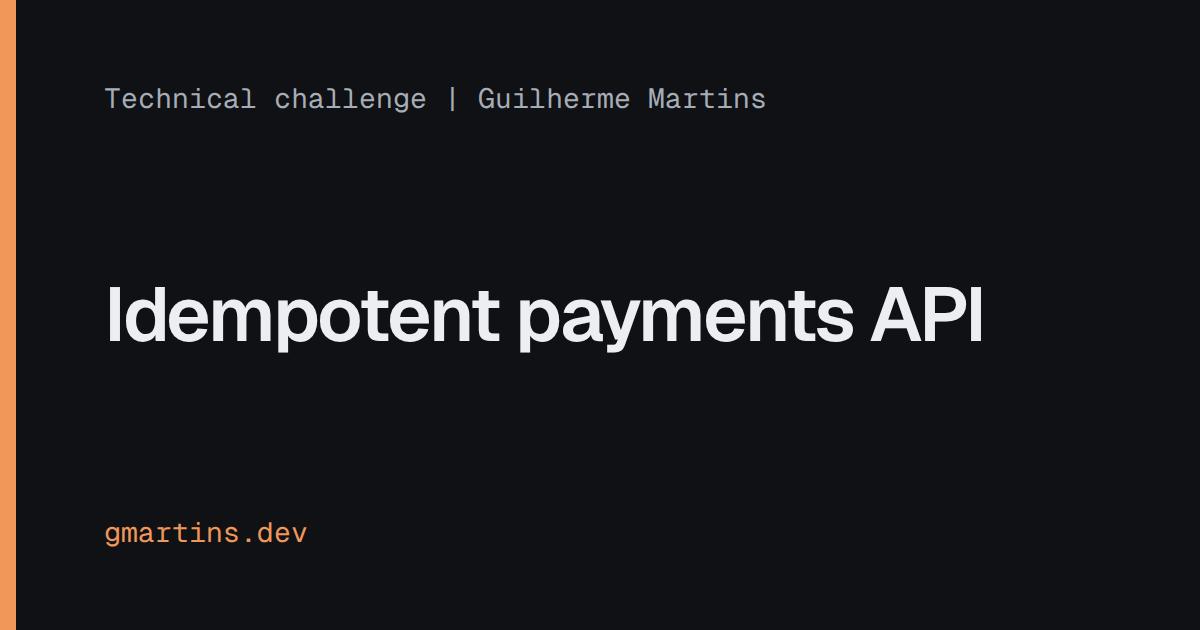
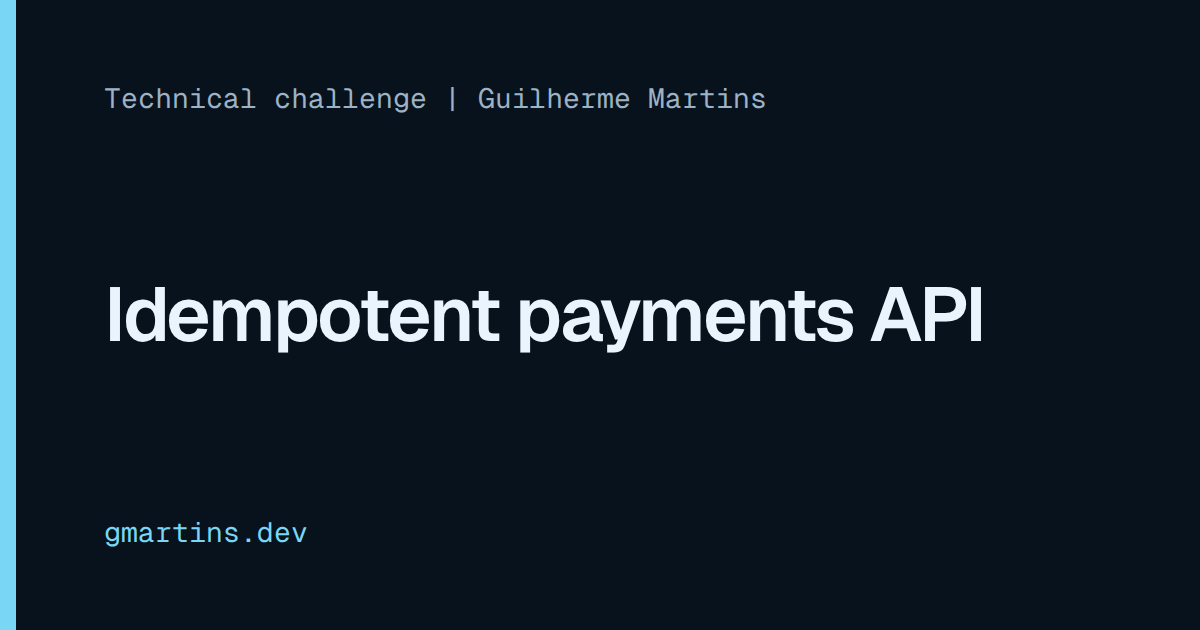
feat(design): Polar Navy palette with a derived light theme
Dark tokens use #08121C, #101F2D, #EAF4FC, #9DB2C5 and #79D7F5. Light is
derived from the same hues. Updates theme-color metas, favicon, social
cards, apple-touch-icon and diagrams; adds ADR-007.

Changed region(s): [[0.0, 0.0, 0.0308, 1.0], [0.0925, 0.8143, 0.2467, 0.8746]]

diff --git a/src/index.css b/src/index.css
@@ -21,51 +21,51 @@
 :root {
 	--radius: 0.5rem;
 
-	--background: oklch(0.985 0.002 250);
-	--foreground: oklch(0.21 0.012 255);
+	--background: oklch(0.977 0.006 240);
+	--foreground: oklch(0.178 0.026 249);
 	--card: oklch(1 0 0);
 	--card-foreground: var(--foreground);
 	--popover: var(--card);
 	--popover-foreground: var(--foreground);
-	--primary: oklch(0.21 0.012 255);
-	--primary-foreground: oklch(0.985 0.002 250);
-	--secondary: oklch(0.95 0.004 250);
+	--primary: oklch(0.178 0.026 249);
+	--primary-foreground: oklch(0.977 0.006 240);
+	--secondary: oklch(0.949 0.011 244);
 	--secondary-foreground: var(--foreground);
-	--muted: oklch(0.955 0.004 250);
-	--muted-foreground: oklch(0.46 0.012 255);
-	--accent: oklch(0.95 0.004 250);
+	--muted: oklch(0.949 0.011 244);
+	--muted-foreground: oklch(0.443 0.045 247);
+	--accent: oklch(0.949 0.011 244);
 	--accent-foreground: var(--foreground);
-	--destructive: oklch(0.55 0.2 27);
-	--border: oklch(0.9 0.005 250);
+	--destructive: oklch(0.501 0.178 29);
+	--border: oklch(0.895 0.018 245);
 	--input: var(--border);
 
-	--brand: oklch(0.52 0.15 42);
-	--brand-foreground: oklch(0.985 0.002 250);
+	--brand: oklch(0.503 0.096 228);
+	--brand-foreground: oklch(0.977 0.006 240);
 	--ring: var(--brand);
 }
 
 @media not print {
 	.dark {
-		--background: oklch(0.17 0.008 255);
-		--foreground: oklch(0.94 0.004 250);
-		--card: oklch(0.205 0.009 255);
+		--background: oklch(0.178 0.026 249);
+		--foreground: oklch(0.962 0.015 242);
+		--card: oklch(0.233 0.034 248);
 		--card-foreground: var(--foreground);
 		--popover: var(--card);
 		--popover-foreground: var(--foreground);
-		--primary: oklch(0.94 0.004 250);
-		--primary-foreground: oklch(0.17 0.008 255);
-		--secondary: oklch(0.24 0.009 255);
+		--primary: oklch(0.962 0.015 242);
+		--primary-foreground: oklch(0.178 0.026 249);
+		--secondary: oklch(0.282 0.043 250);
 		--secondary-foreground: var(--foreground);
-		--muted: oklch(0.22 0.009 255);
-		--muted-foreground: oklch(0.72 0.01 255);
-		--accent: oklch(0.24 0.009 255);
+		--muted: oklch(0.282 0.043 250);
+		--muted-foreground: oklch(0.754 0.036 246);
+		--accent: oklch(0.282 0.043 250);
 		--accent-foreground: var(--foreground);
-		--destructive: oklch(0.7 0.17 27);
-		--border: oklch(0.3 0.009 255);
+		--destructive: oklch(0.759 0.144 26);
+		--border: oklch(0.31 0.045 249);
 		--input: var(--border);
 
-		--brand: oklch(0.76 0.13 55);
-		--brand-foreground: oklch(0.17 0.008 255);
+		--brand: oklch(0.832 0.099 221);
+		--brand-foreground: oklch(0.178 0.026 249);
 		--ring: var(--brand);
 	}
 }

diff --git a/src/router.tsx b/src/router.tsx
@@ -103,12 +103,12 @@ function Document() {
 				<meta
 					name="theme-color"
 					media="(prefers-color-scheme: light)"
-					content="#f9fafb"
+					content="#f4f8fb"
 				/>
 				<meta
 					name="theme-color"
 					media="(prefers-color-scheme: dark)"
-					content="#0d1013"
+					content="#08121c"
 				/>
 			</head>
 			<body className="flex min-h-dvh flex-col">

diff --git a/docs/adr/007-polar-navy-palette.md b/docs/adr/007-polar-navy-palette.md
@@ -1,0 +1,38 @@
+# ADR-007: Polar Navy palette with a derived light theme
+
+- **Date**: 2026-10-18
+- **Status**: Accepted
+- **Tags**: design, accessibility
+
+## Context and Problem Statement
+
+The site used neutral grays with a burnt-orange accent. The owner chose the
+Polar Navy palette (deep navy with a glacial cyan accent) as the new
+identity. It defines only a dark theme, while the site ships a
+Light, Dark and System switcher.
+
+## Decision Drivers
+
+- One source of token values (`src/index.css`)
+- WCAG 2.2 AA in both themes, enforced by the axe e2e suite
+- Keep the theme switcher and the print rules unchanged
+
+## Considered Options
+
+1. Dark only, remove the switcher
+2. Keep the switcher and derive a light theme from the same hues
+
+## Decision Outcome
+
+Chosen option: **2**. Dark uses the palette as given: background `#08121C`,
+surface `#101F2D`, text `#EAF4FC`, muted `#9DB2C5`, accent `#79D7F5`. Light
+is derived (not supplied by the owner): cool near-white surfaces, navy text
+and a darker cyan accent (`#0B6E8F`, 5.4:1 on the page background). Border,
+muted surface and destructive colors in both themes are also derived.
+
+### Consequences
+
+- Hand-mirrored places change with the tokens: `theme-color` metas,
+  `public/favicon.svg`, `scripts/build-og-images.mjs` (also renders the
+  apple-touch-icon) and the Mermaid theme variables in `scripts/diagrams/`.
+- Diagrams stay drawn light and are inverted in dark mode by `WorkImage`.

diff --git a/DESIGN.md b/DESIGN.md
@@ -18,7 +18,7 @@ against an alternative (Phase 5 of the plan), so expect adjustments.
 
 - **Content first.** Hierarchy comes from size, weight, and spacing before
   color.
-- **One accent.** `--brand` (burnt orange) marks links to the next step
+- **One accent.** `--brand` (glacial cyan) marks links to the next step
   inside the site, focus, list markers, and the primary call to action.
   Nothing else gets a color.
 - **Links say where they go.** Links within the site use `text-brand` with a
@@ -47,8 +47,8 @@ against an alternative (Phase 5 of the plan), so expect adjustments.
 Use them through Tailwind utilities (`bg-background`, `text-muted-foreground`,
 `text-brand`). Do not write raw color values in components. Two places must
 mirror token values by hand and change with them: the `theme-color` meta tags
-in `src/router.tsx` (the `--background` values as hex) and the social card
-colors in `scripts/build-og-images.mjs`.
+in `src/router.tsx` (the `--background` values as hex), `public/favicon.svg`, and the social card
+colors in `scripts/build-og-images.mjs`. The Mermaid theme variables in `scripts/diagrams/` use the light brand cyan.
 
 ## Typography
 

diff --git a/docs/architecture.md b/docs/architecture.md
@@ -12,13 +12,13 @@ serves:
 
 ```mermaid
 %%{init: {'theme': 'base', 'themeVariables': {
-  'primaryColor': '#fdf1e9', 'primaryTextColor': '#1e293b',
-  'primaryBorderColor': '#c2541f', 'lineColor': '#94a3b8',
+  'primaryColor': '#e8f5fa', 'primaryTextColor': '#08121c',
+  'primaryBorderColor': '#0b6e8f', 'lineColor': '#94a3b8',
   'secondaryColor': '#ecfdf5', 'tertiaryColor': '#f1f5f9',
   'background': '#ffffff', 'mainBkg': '#f8fafc',
   'nodeBorder': '#cbd5e1', 'clusterBkg': '#f8fafc',
-  'clusterBorder': '#e2e8f0', 'titleColor': '#1e293b',
-  'edgeLabelBackground': '#ffffff', 'textColor': '#334155'
+  'clusterBorder': '#e2e8f0', 'titleColor': '#08121c',
+  'edgeLabelBackground': '#ffffff', 'textColor': '#3f566b'
 }}}%%
 flowchart LR
     subgraph source [Source]

diff --git a/docs/adr/README.md b/docs/adr/README.md
@@ -11,6 +11,7 @@ decision, add a new ADR that supersedes the old one and link both ways.
 | [004](004-typed-content-modules-validated-at-build.md) | Typed content modules validated at build time, no CMS | Accepted |
 | [005](005-layered-quality-gates.md) | Layered quality gates in CI | Accepted |
 | [006](006-real-user-web-vitals-with-vercel-speed-insights.md) | Real-user Core Web Vitals with Vercel Speed Insights | Accepted |
+| [007](007-polar-navy-palette.md) | Polar Navy palette with a derived light theme | Accepted |
 
 New ADR: copy the shape of an existing one (MADR: context, drivers, options,
 outcome, consequences, links), number it sequentially, add it here.

diff --git a/CHANGELOG.md b/CHANGELOG.md
@@ -5,6 +5,13 @@ is in the [roadmap](ROADMAP.md).
 
 ## Unreleased
 
+### Design
+
+- Palette changed to Polar Navy: deep navy surfaces with a glacial cyan
+  accent (`#08121C`, `#101F2D`, `#EAF4FC`, `#9DB2C5`, `#79D7F5` in dark). The
+  light theme is derived from the same hues, with a darker cyan accent for
+  contrast. Favicon, social cards and diagrams were regenerated.
+
 ### Dependencies
 
 - Vite 8 (Rolldown) with `@vitejs/plugin-react` 6, and TypeScript 7. No
